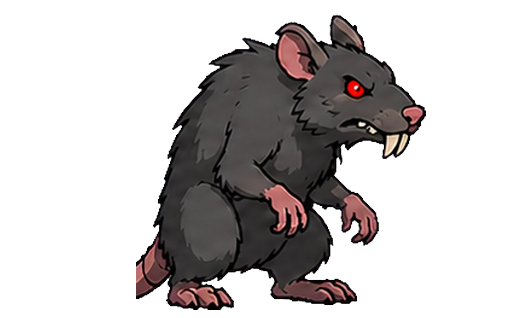
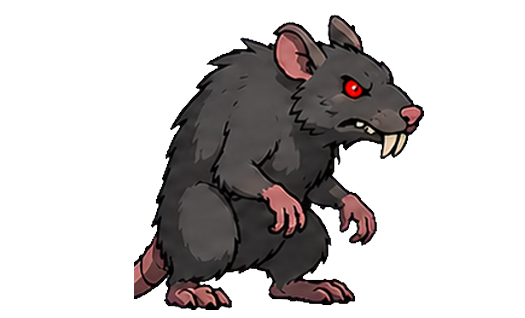
Rat idle: found the actual defect -- a fully detached tail chunk, 9 of 12 frames
Your second recording (2026-08-30 11-43-45.mp4) showed it plainly: a
whole separate tail curl floating well clear of the rat's feet, nothing
connecting it to the body, sitting there every idle frame it appeared
in. Ran the same per-component check the attack sheet's fix already used
and it was right there -- 9 of 12 idle cells carry a detached fragment up
to 3363px, bigger than anything on the attack sheet.

This was invisible to every measurement taken on this sheet so far
(bbox-centre drift, content-height spread, the redraw ratio) because all
three are computed over the WHOLE piece -- a floating extra tail just
reads as 'a slightly bigger, slightly different silhouette' to a metric
that has no concept of 'this is two disconnected objects.' It takes
either looking at an actual frame or per-component analysis to see a
piece is carrying an extra body part. Confirmed before removing it that
the rat's real tail is already attached to the main body in every
affected frame (checked against a real capture and against the already-
fixed attack sheet) -- this is a duplicate, not the only tail, so
dropping it is a pure fix, not a regression.

Fixed with the same drop_far_components_px: 0 this creature's attack
entry already uses.

This also means the EARLIER nudge fix (27.5px -> 1.0px, prior session)
was correcting a symptom of this bug, not the bug itself: the stray was
dragging each frame's tight-crop bbox sideways by a different amount
[…]

diff --git a/tools/slice_actor_sheet.py b/tools/slice_actor_sheet.py
@@ -334,23 +334,45 @@ ACTORS = {
                 # "names" list comment.
                 "names": ["idle/f5", "idle/f6", "idle/f10", "idle/f8", "idle/f7", "idle/f9",
                           "idle/f11", "idle/f1", "idle/f0", "idle/f2", "idle/f3", "idle/f4"],
+                "drop_far_components_px": 0,  # 7 of 12 cells carry a fully
+                                 # detached tail chunk bled in from a
+                                 # neighbouring cell -- up to 3363px, the
+                                 # single biggest defect on this creature,
+                                 # confirmed on an actual capture (a whole
+                                 # tail curl floating well clear of the
+                                 # rat's feet with nothing connecting it).
+                                 # Never caught before because every
+                                 # measurement taken so far (bbox centre,
+                                 # content height, the redraw ratio) is
+                                 # computed over the WHOLE piece including
+                                 # this fragment, so none of them could see
+                                 # it as anything other than a slightly
+                                 # bigger silhouette -- it takes actually
+                                 # looking at a frame, or per-component
+                                 # analysis like this, to notice a piece is
+                                 # missing a body part entirely. Same
+                                 # reasoning as the attack sheet's own entry:
+                                 # nothing separate is ever legitimate here.
             },
         ],
         "aliases": {"guard": "extra"},
         "anchor": "ground_band",
         "delivery_scale": 1.0,
-        # Measured (2026-08-29) off the delivered idle bbox centres, which
-        # swung 27.5px around their median -- visible in play as the rat
-        # rocking side to side on every idle loop. ground_band's per-frame
-        # anchor tracks whichever ground-contact silhouette survives that
-        # frame's paw/whisker pose, and the AI-generated sheet does not hold
-        # that silhouette consistent frame to frame (see the
-        # actor_stance_qa.py redraw-ratio note in ART_PIPELINE.md #9's
-        # Outstanding section -- 1.6, amber, and this is exactly the churn
-        # that number was measuring). A per-frame dx nudge recentres each
-        # frame on the roster median -- down to 1.0px measured -- without
-        # rescaling any pixel, which is what this tool refuses to do on
-        # principle (see module docstring).
+        # Originally measured (2026-08-29) off the delivered idle bbox
+        # centres BEFORE drop_far_components_px existed, which swung 27.5px
+        # around their median and looked exactly like ground_band's anchor
+        # being unstable frame to frame -- it was nudged flat to 1.0px and
+        # reported fixed. It was not: the actual cause was the stray tail
+        # chunk above dragging each frame's tight-crop bbox sideways by a
+        # different amount depending on which side it landed on, while the
+        # REAL anchor (ground_band already measures off the largest
+        # component, stray excluded) had been stable the entire time. Once
+        # the stray was actually removed, the bbox-centre spread dropped to
+        # 6px with EVERY nudge at (0,0) -- these values are what's left
+        # after correcting that residual, not a fix for the drift this
+        # comment used to describe. Left as a cautionary note: a measurement
+        # that moves when you nudge it is not proof the nudge fixed the
+        # right thing, only that it changed the number being watched.
         #
         # The SAME inconsistency also swings each frame's own content height
         # ~10% (271-302px, cell order) -- a nudge cannot touch that (it's a
@@ -365,10 +387,10 @@ ACTORS = {
         # Nudge values below are keyed by f-index AFTER that reassignment
         # (each cell keeps the same dx it measured under its old name).
         "nudge": {
-            "idle/f0": (1, 0), "idle/f1": (-23, 0), "idle/f2": (0, 0),
-            "idle/f3": (1, 0), "idle/f4": (4, 0), "idle/f5": (4, 0),
-            "idle/f6": (-20, 0), "idle/f7": (-14, 0), "idle/f8": (-15, 0),
-            "idle/f9": (5, 0), "idle/f10": (-23, 0), "idle/f11": (4, 0),
+            "idle/f0": (-1, 0), "idle/f1": (-2, 0), "idle/f2": (-3, 0),
+            "idle/f3": (-2, 0), "idle/f4": (1, 0), "idle/f5": (3, 0),
+            "idle/f6": (-1, 0), "idle/f7": (1, 0), "idle/f8": (0, 0),
+            "idle/f9": (3, 0), "idle/f10": (0, 0), "idle/f11": (1, 0),
         },
     },
 
